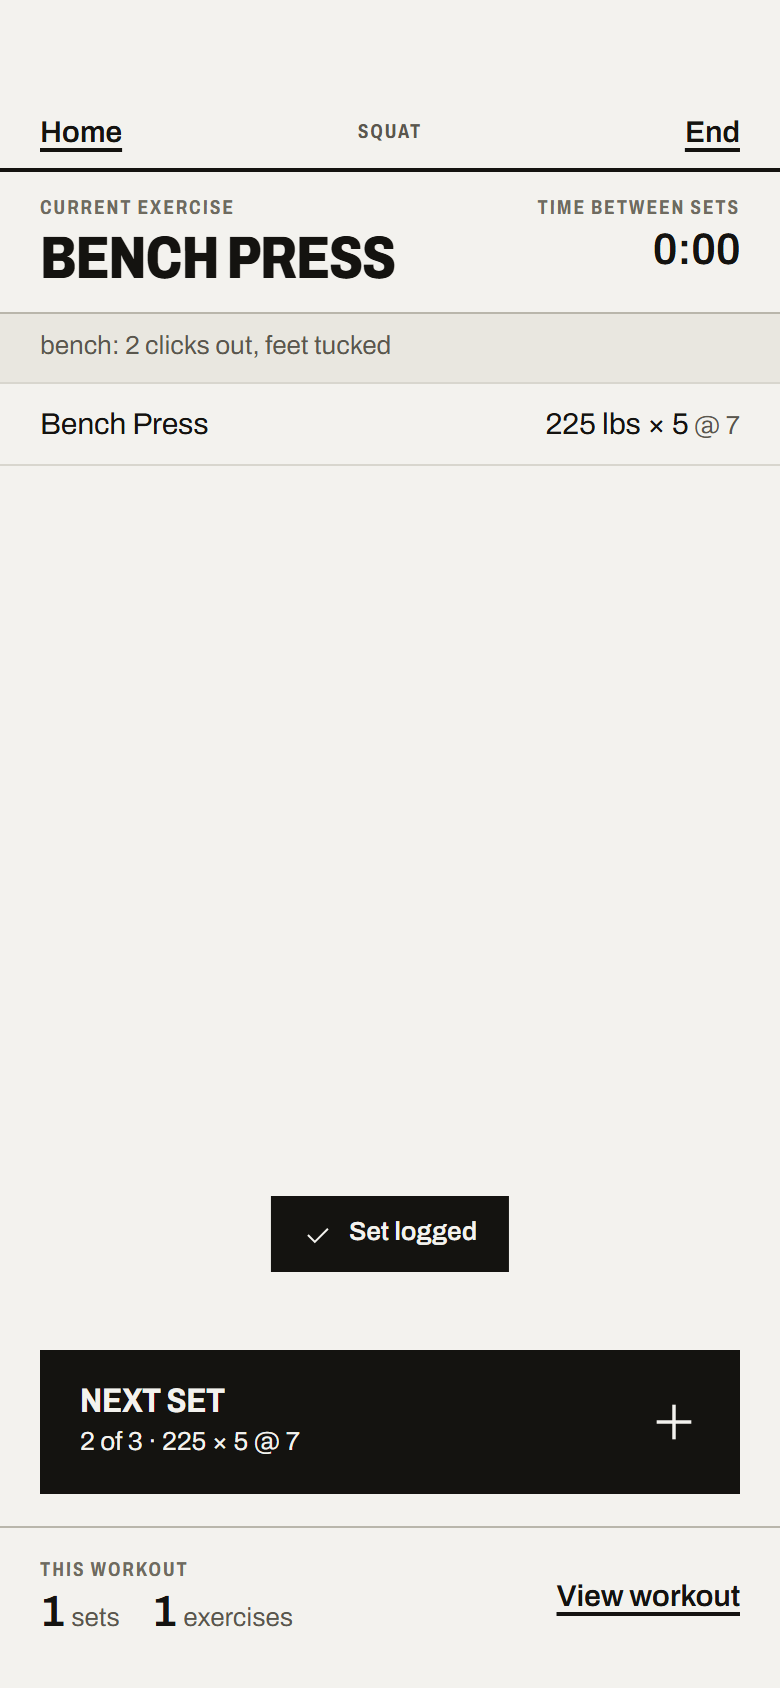
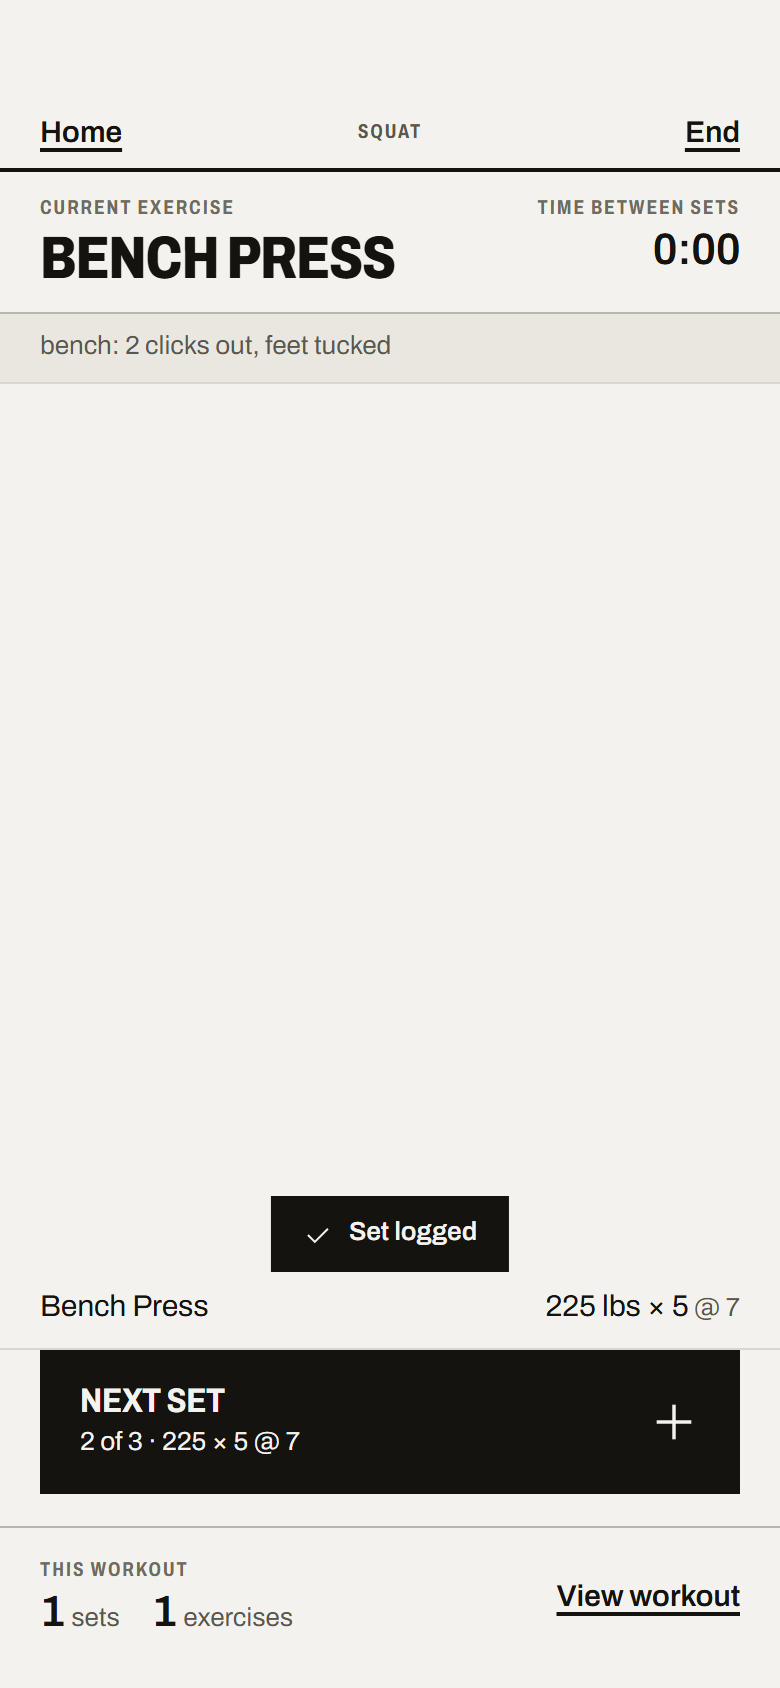
fix(design): the verdict pass, and three regressions I caused
The hatch collision is the one that mattered, because it broke the single law
the hatch system has. Angle carries metric identity, 45 degrees already
belonged to carbs, and I shipped two new 45-degree fields into it: the calorie
measure and the chart area. Selecting Carbs put the identity swatch and the
area fill at the same angle and quietly asserted that every metric was
carbohydrate.

The measure moved to 135, the one diagonal no macro answers to. The chart area
went further and now takes the SELECTED metric's own angle, so the Carbs chart
is ruled at the Carbs angle and matches the swatch on the day view. The
collision became the point rather than being avoided.

A day with nothing logged and no targets no longer draws a table with its
contents missing. That was a real empty state failure and my reorder made it
worse by promoting it into the first viewport, where a blank day and a full day
became pixel-identical for their first third. It is one line now, and
deliberately not built from the app's usual empty-state frame: no imperative,
no purpose clause, no pointing at a control the header already carries.

The nav's action button was a 22px glyph and a label at exactly the routed
tabs' size and geometry, differing only by fill and weight, so it read as a
fifth tab rather than as the thing the bar exists to launch. It takes the inked
cell, which is this app's one mark for "this one" - the same mark the selected
day and the current lift already wear.
[…]

diff --git a/src/components/DayStatsCard.tsx b/src/components/DayStatsCard.tsx
@@ -230,6 +230,42 @@ export function DayStatsCard({ date }: { date: string }): JSX.Element {
   const showBodyweight = !isFuture && bodyweight !== undefined;
   const round = (n: number) => Math.round(n).toLocaleString();
 
+  /**
+   * A day with nothing logged and no targets set has no table to draw.
+   *
+   * It used to render one anyway: a lone "Not recorded" over an empty ruled
+   * band. That was a table with its contents missing rather than an empty
+   * state, and once the numbers moved above the canvas it was the second thing
+   * on the screen, which made a fresh day and a full day pixel-identical for
+   * their first third. An empty state that shares the populated state's shape
+   * is not an empty state.
+   *
+   * The line below is deliberately not built from the app's usual empty-state
+   * frame. No imperative, no purpose clause, no pointing at a control: the
+   * header directly above it already says "Daily numbers" and carries the Edit
+   * that fills them in.
+   */
+  const nothingToShow =
+    !isFuture &&
+    calories === undefined &&
+    bodyweight === undefined &&
+    targetCalories === undefined &&
+    targetProtein === undefined &&
+    targetFat === undefined &&
+    targetCarbs === undefined &&
+    targetSteps === undefined;
+
+  if (nothingToShow) {
+    return (
+      // -mx-5 to match group-list: every table on this page opens with a rule
+      // that reaches the trim, and an inset one here would read as a different
+      // kind of object rather than as the same table with nothing in it.
+      <div className="-mx-5 rule-heavy-t border-b border-rule-strong px-5 py-4">
+        <p className="t-body text-ink-2">This day is still blank.</p>
+      </div>
+    );
+  }
+
   return (
     <div className="group-list">
       {/* The hero: the one figure this screen exists to show, at timetable

diff --git a/src/routes/charts.tsx b/src/routes/charts.tsx
@@ -60,6 +60,25 @@ function formatMetricValue(metricKey: DailyLogNumericField, v: number): string {
   return (Math.round(v * 10) / 10).toLocaleString();
 }
 
+/**
+ * The angle the area under a trace is ruled at.
+ *
+ * Angle carries metric identity in this system, so the chart fills with the
+ * SELECTED metric's own hatch: the Carbs chart is ruled at the Carbs angle and
+ * matches the swatch beside "Carbs" on the day view. The first version ruled
+ * every chart at 45 regardless, which collided with hatch-carbs and quietly
+ * asserted that every metric was carbohydrate.
+ *
+ * 135 is the diagonal no macro owns, so the metrics that have no macro identity
+ * take it.
+ */
+function hatchAngleFor(metricKey: DailyLogNumericField): number {
+  if (metricKey === "protein") return 90;
+  if (metricKey === "carbs") return 45;
+  if (metricKey === "fat") return 0;
+  return 135;
+}
+
 function ChartsPage() {
   const dailyLogs = useEffectiveDailyLogs();
   const unit = useStore((s) => s.unit);
@@ -656,7 +675,7 @@ function Chart({
           width="4"
           height="4"
           patternUnits="userSpaceOnUse"
-          patternTransform="rotate(45)"
+          patternTransform={`rotate(${hatchAngleFor(metricKey)})`}
         >
           <line x1="0" y1="0" x2="0" y2="4" stroke="var(--color-ink)" strokeWidth="0.6" />
         </pattern>

diff --git a/src/styles.css b/src/styles.css
@@ -515,16 +515,21 @@
   background-color: var(--color-ink);
 }
 
-/** A dense measured field, for a quantity read against a ruled scale. Denser
-    than the macro hatches because it is read as an amount rather than as an
-    identity, and it must not be mistaken for one of the three macro keys. */
+/** A measured field: a quantity read against a ruled scale, not an identity.
+
+    135 degrees, and the angle is the whole point. Protein owns 90, carbs owns
+    45 and fat owns 0, so this is the one diagonal no metric answers to. The
+    first version of this utility shipped at 45 and collided head-on with
+    hatch-carbs, which broke the single law the hatch system has: angle carries
+    identity. A field that means "amount" must not be able to be read as a
+    field that means "carbs". */
 @utility hatch-dense {
-  background-image: repeating-linear-gradient(45deg, var(--color-ink) 0 1px, transparent 1px 3px);
+  background-image: repeating-linear-gradient(135deg, var(--color-ink) 0 1px, transparent 1px 3px);
 }
 /** The same field in the second ink, for the part of a measure that overran. */
 @utility hatch-over {
   background-image: repeating-linear-gradient(
-    45deg,
+    135deg,
     var(--color-signal) 0 1px,
     transparent 1px 3px
   );

diff --git a/src/components/AppShell.tsx b/src/components/AppShell.tsx
@@ -278,7 +278,13 @@ export function BottomNav({ onOpenChooser }: { onOpenChooser: () => void }) {
             // rank with fill and weight instead: a solid glyph and a semibold
             // label against four muted outlined tabs. When it was accent too,
             // two items lit up at once and neither one told you where you were.
-            className="flex min-h-[44px] min-w-[56px] flex-col items-center justify-center gap-0.5 border-t-2 border-transparent py-1 text-ink"
+            // The inked cell, which is this app's one mark for "this one": the
+            // selected day in the week strip and the current lift in the plan
+            // list both wear it. Before this the action button was a 22px glyph
+            // and a label at exactly the routed tabs' size and geometry,
+            // differing only by fill and weight, so it read as a fifth tab
+            // rather than as the thing the bar exists to launch.
+            className="flex min-h-[44px] min-w-[56px] flex-col items-center justify-center gap-0.5 bg-ink px-3 py-1 text-paper"
           >
             <span className="relative flex items-center justify-center">
               <FlameIcon />

diff --git a/src/routes/workout.tsx b/src/routes/workout.tsx
@@ -251,8 +251,17 @@ function WorkoutPage() {
         plan list, which is an offer about what comes NEXT and outranks a
         transcript of what already happened.
       */}
+      {/*
+        Stacked UP from the log bar, not down from the header.
+
+        The rows grow towards the button rather than away from it, so the set
+        you just logged is always the row nearest your thumb and the blank
+        paper collects at the top where nothing needs it. Logging the first
+        set of a session otherwise put one row under the header and left the
+        whole 700px middle empty between it and the control that made it.
+      */}
       {!planned && sessSets.length > 0 && (
-        <section className="min-h-0 flex-1 overflow-y-auto">
+        <section className="flex min-h-0 flex-1 flex-col justify-end overflow-y-auto">
           <ul className="hairline-b">
             {[...sessSets].reverse().map((set, idx) => {
               const ex = exercises.find((e) => e.id === set.exerciseId);
